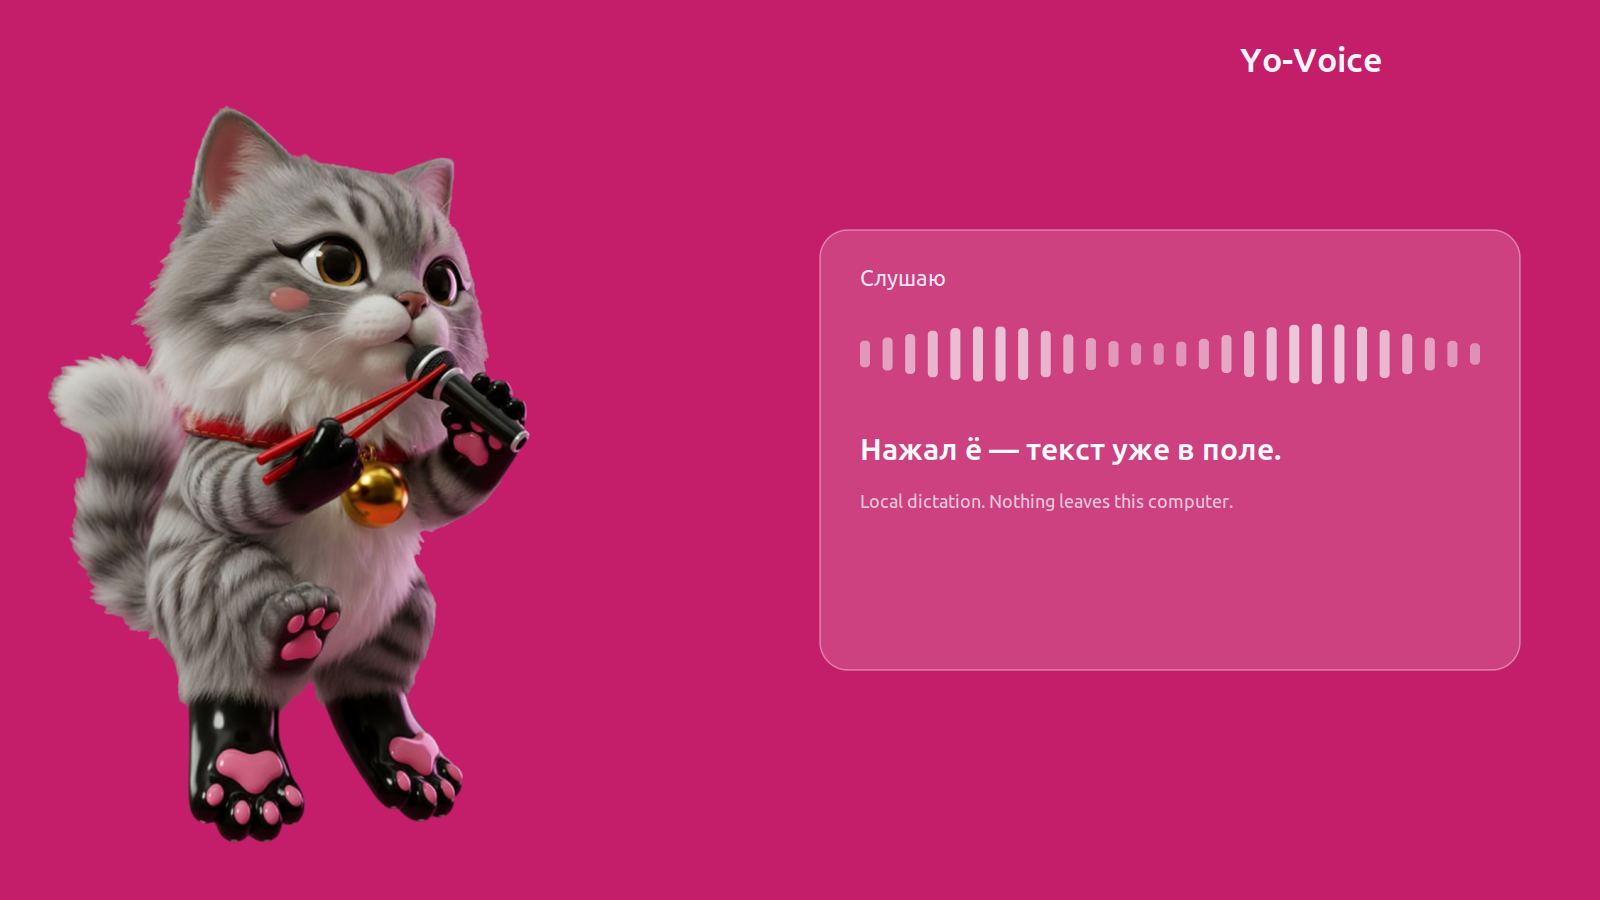
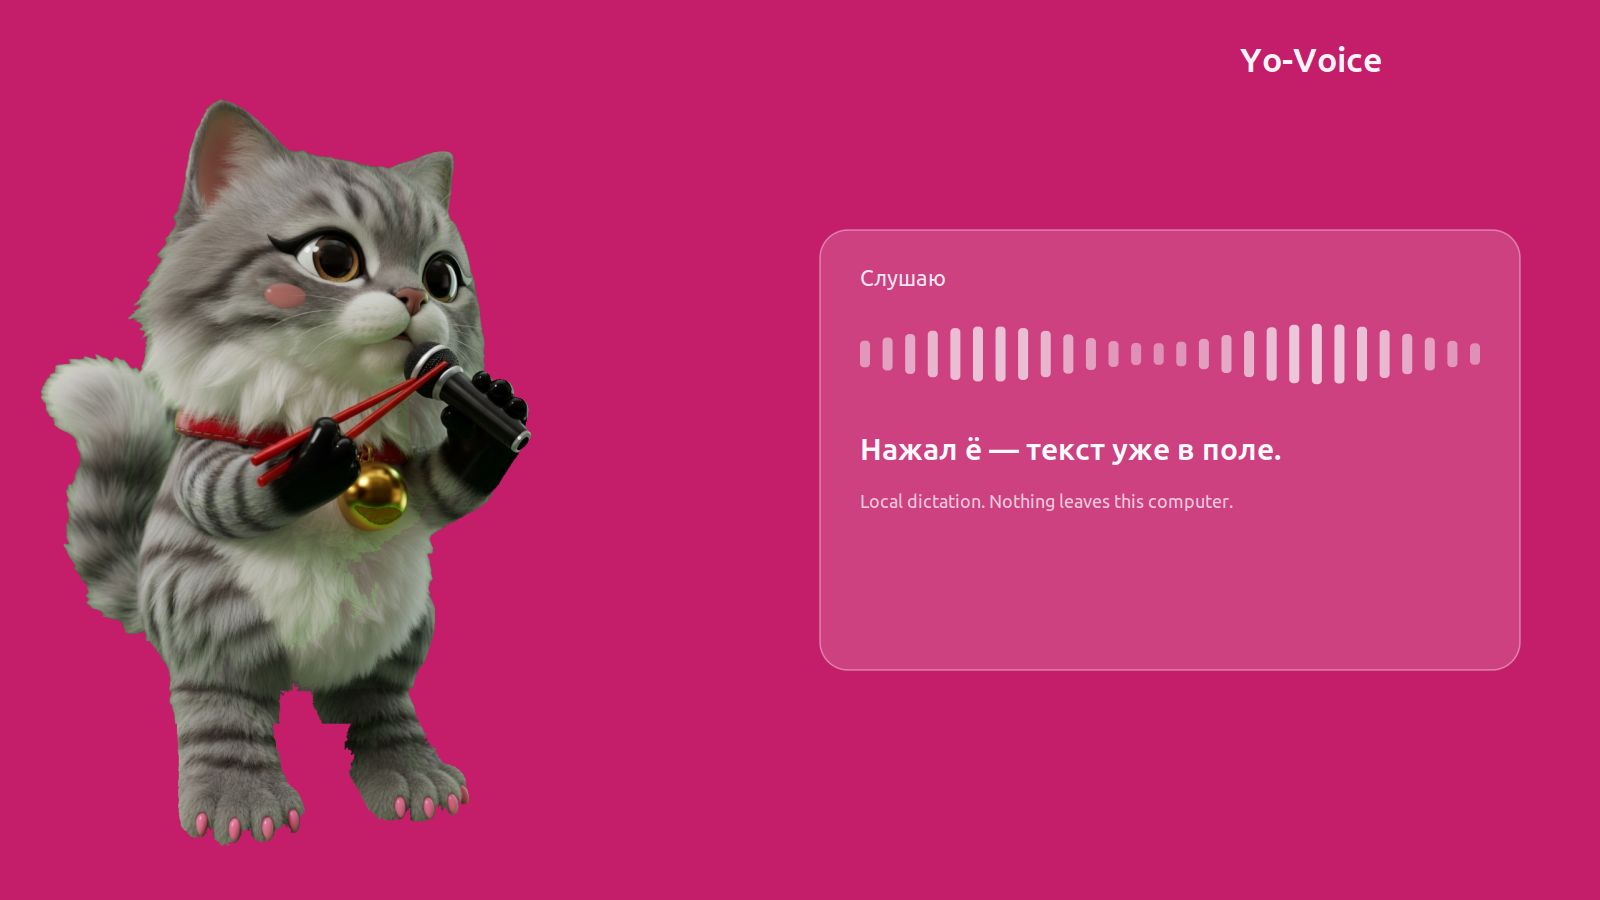
Fix overlay cat hind paws and say this program in GitHub docs.
The mascot now stands on two grey hind paws with pink toe beans: no extra belly paw, no reversed black-boot soles. README and changelog name this program directly instead of a jargon background-process word. The README hero is rebuilt from the approved cat.

Changed region(s): [[0.0312, 0.0933, 0.3438, 0.9333]]

diff --git a/tests/test_mascot_identity.py b/tests/test_mascot_identity.py
@@ -6,9 +6,6 @@ from PIL import Image
 from yo.paths import orb_path, project_root
 
 PAD = 8
-PAW_DARK = 2_000
-PAW_PINK = 200
-PAW_SPAN = 200
 
 
 def _open_logo(path: Path) -> Image.Image:
@@ -23,12 +20,11 @@ def _opaque_bbox(im: Image.Image):
     return bbox
 
 
-def _hind_paw_band(im: Image.Image, bbox):
-    y1 = bbox[3]
-    y0 = max(bbox[1], y1 - 48)
-    dark = pink = 0
-    min_x = im.size[0]
-    max_x = 0
+def _band(im: Image.Image, bbox, y0_frac: float, y1_frac: float):
+    height = bbox[3] - bbox[1]
+    y0 = bbox[1] + int(height * y0_frac)
+    y1 = bbox[1] + int(height * y1_frac)
+    dark = grey = pink = 0
     for y in range(y0, y1):
         for x in range(bbox[0], bbox[2]):
             r, g, b, a = im.getpixel((x, y))
@@ -36,12 +32,11 @@ def _hind_paw_band(im: Image.Image, bbox):
                 continue
             if r < 55 and g < 55 and b < 55:
                 dark += 1
-                min_x = min(min_x, x)
-                max_x = max(max_x, x)
-            elif r > 160 and 70 <= g < 190 and b > 90:
+            elif r > 180 and g < 140 and (r - g) > 70 and b > 100:
                 pink += 1
-    span = 0 if dark == 0 else max_x - min_x
-    return dark, pink, span
+            elif abs(r - g) < 30 and abs(g - b) < 30 and 70 < r < 200:
+                grey += 1
+    return dark, grey, pink
 
 
 class MascotIdentityTests(unittest.TestCase):
@@ -81,13 +76,35 @@ class MascotIdentityTests(unittest.TestCase):
         self.assertLessEqual(right, w - PAD)
         self.assertLessEqual(bottom, h - PAD)
 
-    def test_logo_hind_paws_are_complete(self):
+    def test_logo_hind_paws_are_furry_not_reversed_black_boots(self):
         path = orb_path()
         im = _open_logo(path)
-        dark, pink, span = _hind_paw_band(im, _opaque_bbox(im))
-        self.assertGreaterEqual(dark, PAW_DARK)
-        self.assertGreaterEqual(pink, PAW_PINK)
-        self.assertGreaterEqual(span, PAW_SPAN)
+        dark, grey, _pink = _band(im, _opaque_bbox(im), 0.85, 1.0)
+        self.assertGreater(grey, dark)
+
+    def test_logo_belly_has_no_stray_third_paw(self):
+        path = orb_path()
+        im = _open_logo(path)
+        _dark, _grey, pink = _band(im, _opaque_bbox(im), 0.50, 0.70)
+        self.assertLess(pink, 8_000)
+
+    def test_logo_has_no_studio_floor_plate(self):
+        path = orb_path()
+        im = _open_logo(path)
+        bbox = _opaque_bbox(im)
+        height = bbox[3] - bbox[1]
+        y0 = bbox[1] + int(height * 0.88)
+        leftover = 0
+        for y in range(y0, bbox[3]):
+            for x in range(bbox[0], bbox[2]):
+                r, g, b, a = im.getpixel((x, y))
+                if a < 128:
+                    continue
+                if g > 50 and g > r + 20 and g > b + 20:
+                    leftover += 1
+                elif r > 40 and r < 120 and g < 40 and b > 12 and b < 70 and r > g + 20:
+                    leftover += 1
+        self.assertLess(leftover, 400)
 
     def test_logo_corners_are_transparent(self):
         path = orb_path()
@@ -106,8 +123,6 @@ class MascotIdentityTests(unittest.TestCase):
         self.assertGreaterEqual(bbox[0], PAD)
         self.assertLessEqual(bbox[2], w - PAD)
         self.assertLessEqual(bbox[3], h - PAD)
-        dark, pink, span = _hind_paw_band(im, bbox)
-        self.assertGreaterEqual(dark, PAW_DARK)
-        self.assertGreaterEqual(pink, PAW_PINK)
-        self.assertGreaterEqual(span, PAW_SPAN)
+        dark, grey, _pink = _band(im, bbox, 0.85, 1.0)
+        self.assertGreater(grey, dark)
         self.assertEqual(logo.read_bytes(), mascot.read_bytes())

diff --git a/tests/test_release_docs.py b/tests/test_release_docs.py
@@ -29,3 +29,15 @@ class ReleaseDocsTests(unittest.TestCase):
         readme = (project_root() / "README.md").read_text(encoding="utf-8")
         self.assertIn("Нажал ё — текст уже в поле.", readme)
         self.assertIn("assets/readme-hero.png", readme)
+
+    def test_github_docs_do_not_use_the_word_daemon(self):
+        root = project_root()
+        for name in ("README.md", "CHANGELOG.md"):
+            text = (root / name).read_text(encoding="utf-8")
+            self.assertNotRegex(
+                text,
+                r"(?i)daemon",
+                f"{name} still contains daemon",
+            )
+            self.assertNotIn("демон", text)
+            self.assertNotIn("Демон", text)

diff --git a/README.md b/README.md
@@ -15,7 +15,7 @@ It is not a cloud product. Microphone audio and transcripts stay on the computer
 - Speaks **Russian**. Punctuation and capitalization are cleaned up after recognition.
 - Shows a small **cat overlay** while listening: **Жду** (waiting / loading), **Можно говорить** (about one second after the mic is live), then **Слушаю** (listening). The waveform moves only while the microphone is actually capturing.
 - Lets you pick the microphone by **right-clicking the cat**.
-- Starts a background daemon at login, so the hotkey is ready without opening a window.
+- Starts this program at login, so the hotkey is ready without opening a window.
 
 ## What it cannot do
 
@@ -35,7 +35,7 @@ Developed and tested on **Linux Mint 22.3, Cinnamon, X11**. Other X11 desktops m
 
 - **Your speech never leaves this computer.** Recognition runs locally.
 - **Transcripts are not uploaded.** They are pasted into the focused app through the clipboard, then the previous clipboard contents are restored.
-- Config lives in `~/.config/yo-voice/`. Logs and the daemon socket live in `~/.cache/yo-voice/`.
+- Config lives in `~/.config/yo-voice/`. Logs live in `~/.cache/yo-voice/`.
 - The only expected network use is **install time** (Python packages) and the **first launch**, which downloads Whisper model weights (~1.6 GB) into a local cache. That download is model files, not your microphone.
 
 ## Hotkey
@@ -93,7 +93,7 @@ The installer:
 1. Creates `.venv` (with system GTK / X11 bindings)
 2. Installs Python dependencies, including CUDA libraries when available
 3. Puts a **Ёхо** launcher on the Desktop and in the application menu
-4. Enables **autostart** of the background daemon (`~/.config/autostart/yo-voice.desktop`, 3 second delay)
+4. Enables **autostart** of this program (`~/.config/autostart/yo-voice.desktop`, 3 second delay)
 5. Symlinks `yo-voice` into `~/.local/bin/`
 
 ### 4. First launch
@@ -109,7 +109,7 @@ Right-click the cat to choose the microphone (**Авто** = automatic).
 
 You do **not** need to open the app by hand.
 
-- After you log into Cinnamon, the **daemon starts by itself**.
+- After you log into Cinnamon, **this program starts by itself**.
 - Press **ё** / **\`** to start or stop listening.
 - The Desktop / menu icon toggles listening the same way.
 - First-run model download happens only once; later starts are local and fast on GPU.
@@ -117,13 +117,12 @@ You do **not** need to open the app by hand.
 Useful commands:
 
 ```bash
-yo-voice              # toggle listening (starts the daemon if needed)
-yo-voice daemon       # run the background daemon in this terminal
+yo-voice              # toggle listening (starts this program if needed)
 yo-voice status       # idle | listening
 yo-voice start        # start listening
 yo-voice stop         # stop and paste
 yo-voice settings     # microphone window
-yo-voice quit         # stop the daemon
+yo-voice quit         # quit this program
 yo-voice demo         # overlay demo without dictation
 ```
 
@@ -131,7 +130,7 @@ Re-run `./scripts/install.sh` after a `git pull` to refresh the venv and launche
 
 ## How a dictation pass works
 
-1. Hotkey (or the launcher) tells the daemon to listen.
+1. Hotkey (or the launcher) tells this program to listen.
 2. Overlay appears without stealing keyboard focus, so the caret stays in your app.
 3. Silero VAD keeps silence out of Whisper; only speech is transcribed.
 4. On a pause, the utterance is recognized locally and pasted with Ctrl+V (Ctrl+Shift+V in terminals).

diff --git a/CHANGELOG.md b/CHANGELOG.md
@@ -2,7 +2,8 @@
 
 ## Unreleased
 
-- Overlay and desktop icon: the cat mascot now includes complete hind paws instead of a cropped canvas
+- Overlay, desktop icon, and README hero: two standing grey hind paws with pink toe beans; the extra belly paw and reversed black-boot soles are gone
+- README and changelog now say this program wherever they meant the program running in the background
 
 ## 1.0.0 — 2026-08-22
 
@@ -13,5 +14,5 @@ First public release of **Yo-Voice** (Ёхо).
 - Silero VAD so only speech is sent to Whisper
 - Microphone picker: right-click the cat
 - Hotkey: `ё` / `` ` `` (X11 keycode 49, the key left of `1`)
-- Autostart background daemon on login
+- Starts this program at login
 - Paste into the focused field via Ctrl+V (Ctrl+Shift+V in terminals)
